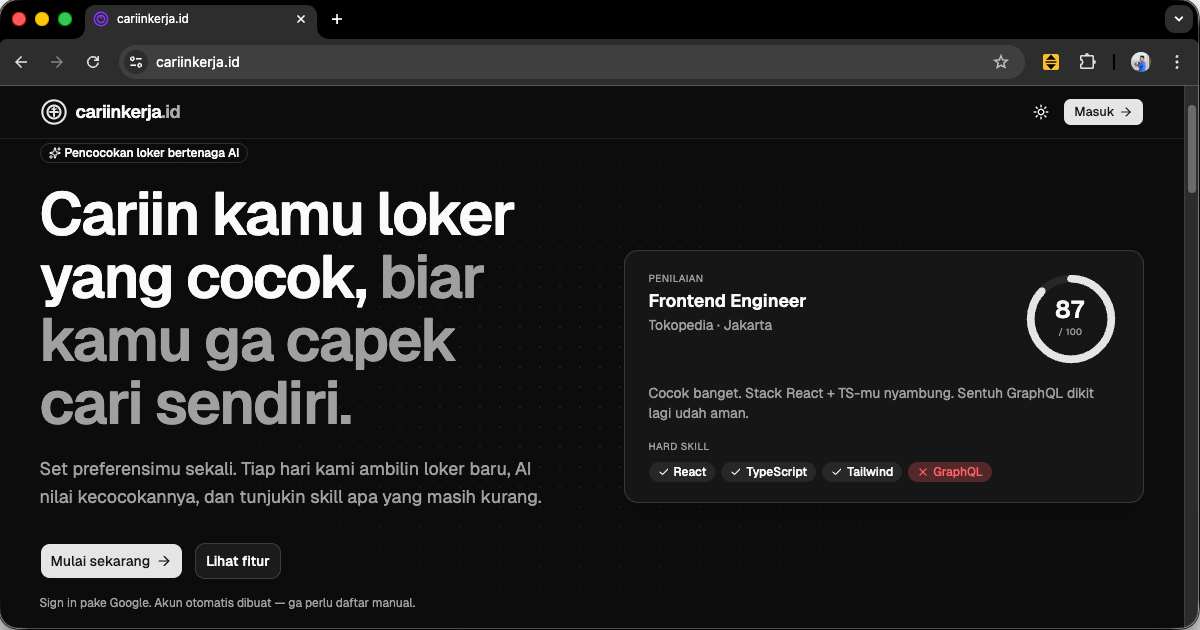
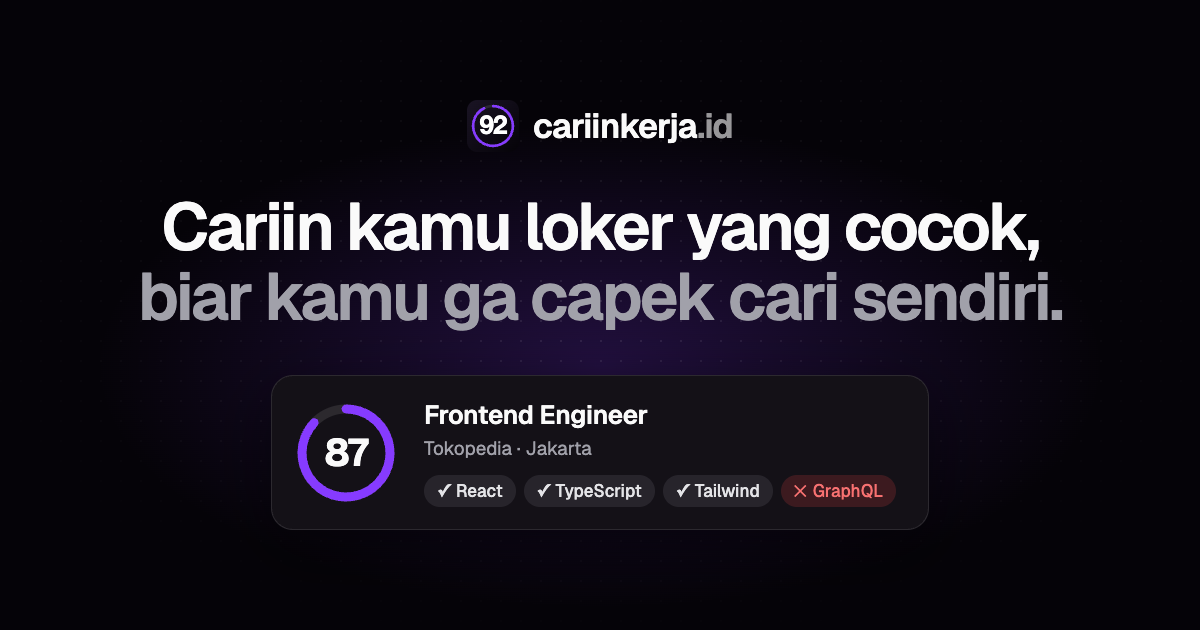
feat: add SEO enhancements and new assets
- Added robots.txt to manage crawler access.
- Created site.webmanifest for PWA support.
- Added sitemap.xml for better indexing.
- Updated Open Graph image for social sharing.
- Removed unused assets (hero.png, react.svg, vite.svg).
- Improved accessibility by adding alt text to images and adjusting SVG roles.
- Implemented dynamic meta titles for various routes.
- Added a custom 404 page with appropriate metadata.
- Updated testimonials with descriptive alt text for images.
- Added a todo.md file to track project progress.

Changed region(s): [[0.0308, 0.3016, 0.9558, 0.8143], [0.0, 0.0, 1.0, 1.0], [0.0308, 0.8444, 0.3392, 0.9651]]

diff --git a/frontend/index.html b/frontend/index.html
@@ -3,7 +3,10 @@
 
 <head>
   <meta charset="UTF-8" />
+  <link rel="icon" href="/favicon.ico" sizes="32x32" />
   <link rel="icon" type="image/svg+xml" href="/favicon.svg" />
+  <link rel="apple-touch-icon" href="/apple-touch-icon.png" />
+  <link rel="manifest" href="/site.webmanifest" />
   <meta name="viewport" content="width=device-width, initial-scale=1.0" />
 
   <title>cariinkerja.id — Cariin kamu loker yang cocok</title>
@@ -19,19 +22,26 @@
   <meta property="og:title" content="cariinkerja.id — Cariin kamu loker yang cocok" />
   <meta property="og:description"
     content="Tiap hari kita cek loker baru yang cocok sama profilmu, dan tunjukin skill apa yang kurang dari kamu." />
-  <meta property="og:image" content="https://cariinkerja.id/og-image.png" />
+  <meta property="og:image" content="https://cariinkerja.id/og-image.png?v=2" />
   <meta property="og:image:width" content="1200" />
   <meta property="og:image:height" content="630" />
-  <meta property="og:image:alt" content="cariinkerja.id — pencocokan loker bertenaga AI" />
+  <meta property="og:image:alt" content="cariinkerja.id — skor kecocokan loker 87/100 plus skill yang masih kurang" />
 
   <!-- Twitter / X -->
   <meta name="twitter:card" content="summary_large_image" />
   <meta name="twitter:title" content="cariinkerja.id — Cariin kamu loker yang cocok" />
   <meta name="twitter:description"
     content="Tiap hari kita cek loker baru yang cocok sama profilmu, dan tunjukin skill apa yang kurang dari kamu." />
-  <meta name="twitter:image" content="https://cariinkerja.id/og-image.png" />
+  <meta name="twitter:image" content="https://cariinkerja.id/og-image.png?v=2" />
+  <meta name="twitter:image:alt" content="cariinkerja.id — skor kecocokan loker 87/100 plus skill yang masih kurang" />
 
   <script src="https://accounts.google.com/gsi/client" async defer></script>
+
+  <!-- Umami analytics + session recorder -->
+  <script defer src="https://umami.jordanmaulana.space/script.js"
+    data-website-id="8210aaee-9ce5-4825-a5c5-8d81349ca09f"></script>
+  <script defer src="https://umami.jordanmaulana.space/recorder.js"
+    data-website-id="8210aaee-9ce5-4825-a5c5-8d81349ca09f"></script>
 </head>
 
 <body>

diff --git a/frontend/src/routes/__root.tsx b/frontend/src/routes/__root.tsx
@@ -1,6 +1,8 @@
-import { Suspense, lazy } from "react";
-import { createRootRoute } from "@tanstack/react-router";
+import { Suspense, lazy, useEffect } from "react";
+import { HeadContent, Link, createRootRoute } from "@tanstack/react-router";
 
+import { LogoMark } from "@/components/brand/logo-mark";
+import { Button } from "@/components/ui/button";
 import { AuthGate } from "@/features/auth/components/auth-gate";
 
 const TanStackRouterDevtools = import.meta.env.DEV
@@ -19,8 +21,11 @@ const ReactQueryDevtools = import.meta.env.DEV
   : () => null;
 
 export const Route = createRootRoute({
+  // Title only: a per-route description would duplicate index.html's static one.
+  head: () => ({ meta: [{ title: "cariinkerja.id — Cariin kamu loker yang cocok" }] }),
   component: () => (
     <>
+      <HeadContent />
       <AuthGate />
       <Suspense fallback={null}>
         <TanStackRouterDevtools />
@@ -28,4 +33,33 @@ export const Route = createRootRoute({
       </Suspense>
     </>
   ),
+  notFoundComponent: NotFoundPage,
 });
+
+function NotFoundPage() {
+  // `serve -s` answers every path with 200, so tell crawlers this is a soft 404.
+  useEffect(() => {
+    const meta = document.createElement("meta");
+    meta.name = "robots";
+    meta.content = "noindex";
+    document.head.appendChild(meta);
+    return () => meta.remove();
+  }, []);
+
+  return (
+    <main className="grid min-h-[70svh] place-items-center px-4 text-center">
+      <title>Halaman tidak ditemukan — cariinkerja.id</title>
+      <div className="flex flex-col items-center gap-4">
+        <LogoMark className="size-12" />
+        <p className="text-sm font-medium text-muted-foreground">404</p>
+        <h1 className="text-2xl font-semibold">Halaman tidak ditemukan</h1>
+        <p className="max-w-sm text-sm text-muted-foreground">
+          Halaman yang kamu cari nggak ada atau sudah dipindah.
+        </p>
+        <Button asChild>
+          <Link to="/">Kembali ke beranda</Link>
+        </Button>
+      </div>
+    </main>
+  );
+}

diff --git a/frontend/src/features/auth/components/auth-gate.tsx b/frontend/src/features/auth/components/auth-gate.tsx
@@ -17,6 +17,10 @@ export function AuthGate() {
   const [user, setUser] = useAtom(userAtom);
   const navigate = useNavigate();
   const pathname = useRouterState({ select: (s) => s.location.pathname });
+  // Unmatched URL: let the root notFoundComponent render instead of bouncing to /login.
+  const isNotFound = useRouterState({
+    select: (s) => s.matches.some((m) => m.globalNotFound),
+  });
   const sessionExpiredFiredRef = useRef(false);
   const onboardingNudgeFiredRef = useRef(false);
 
@@ -46,6 +50,7 @@ export function AuthGate() {
   }, [token, user, setToken, setUser]);
 
   useEffect(() => {
+    if (isNotFound) return;
     if (!token) {
       if (!PUBLIC_PATHS.has(pathname)) {
         navigate({ to: "/login" });
@@ -64,7 +69,7 @@ export function AuthGate() {
     if (user.onboarded && (PUBLIC_PATHS.has(pathname) || pathname === "/onboarding")) {
       navigate({ to: "/dashboard" });
     }
-  }, [token, user, pathname, navigate]);
+  }, [token, user, pathname, navigate, isNotFound]);
 
   if (!token || !user || FULL_BLEED_PATHS.has(pathname)) {
     return <Outlet />;

diff --git a/frontend/src/components/brand/logo-mark.tsx b/frontend/src/components/brand/logo-mark.tsx
@@ -11,8 +11,8 @@ export function LogoMark({ className, title = "cariinkerja.id" }: Props) {
       xmlns="http://www.w3.org/2000/svg"
       viewBox="0 0 240 240"
       fill="none"
-      role="img"
-      aria-label={title}
+      // Empty title = decorative (sits next to visible brand text).
+      {...(title ? { role: "img", "aria-label": title } : { "aria-hidden": true })}
       className={cn("size-6", className)}
     >
       <defs>
@@ -61,7 +61,7 @@ export function LogoMark({ className, title = "cariinkerja.id" }: Props) {
 export function LogoLockup({ className }: { className?: string }) {
   return (
     <div className={cn("flex items-center gap-2", className)}>
-      <LogoMark className="size-7" />
+      <LogoMark className="size-7" title="" />
       <span className="font-heading text-lg font-semibold tracking-tight">
         cariinkerja<span className="opacity-60">.id</span>
       </span>

diff --git a/frontend/src/features/landing/components/brand-marks.tsx b/frontend/src/features/landing/components/brand-marks.tsx
@@ -5,7 +5,6 @@ type MarkProps = { className?: string };
 export function GithubMark({ className }: MarkProps) {
   return (
     <svg
-      role="img"
       viewBox="0 0 24 24"
       aria-hidden="true"
       fill="currentColor"
@@ -19,7 +18,6 @@ export function GithubMark({ className }: MarkProps) {
 export function LinkedinMark({ className }: MarkProps) {
   return (
     <svg
-      role="img"
       viewBox="0 0 24 24"
       aria-hidden="true"
       fill="currentColor"
@@ -33,7 +31,6 @@ export function LinkedinMark({ className }: MarkProps) {
 export function IndeedMark({ className }: MarkProps) {
   return (
     <svg
-      role="img"
       viewBox="0 0 24 24"
       aria-hidden="true"
       fill="currentColor"

diff --git a/frontend/src/components/layout/app-shell.tsx b/frontend/src/components/layout/app-shell.tsx
@@ -69,7 +69,7 @@ export function AppShell() {
     <div className="flex min-h-screen bg-background text-foreground">
       <aside className="hidden w-60 shrink-0 flex-col border-r bg-card md:flex">
         <div className="flex h-14 items-center gap-2 border-b px-5">
-          <LogoMark className="size-5 text-primary" />
+          <LogoMark className="size-5 text-primary" title="" />
           <span className="text-sm font-semibold tracking-tight">
             cariinkerja<span className="opacity-60">.id</span>
           </span>

diff --git a/frontend/src/features/assessments/components/score-gauge.tsx b/frontend/src/features/assessments/components/score-gauge.tsx
@@ -29,7 +29,11 @@ export function ScoreGauge({ value }: { value: number }) {
 
   return (
     <div className="relative grid size-24 shrink-0 place-items-center">
-      <svg viewBox="0 0 100 100" className="absolute inset-0 -rotate-90">
+      <svg
+        viewBox="0 0 100 100"
+        aria-hidden="true"
+        className="absolute inset-0 -rotate-90"
+      >
         <circle
           cx="50"
           cy="50"

diff --git a/frontend/src/routes/assessments.index.tsx b/frontend/src/routes/assessments.index.tsx
@@ -39,6 +39,7 @@ export type AssessmentsSearch = {
 }
 
 export const Route = createFileRoute("/assessments/")({
+  head: () => ({ meta: [{ title: "Loker Tersedia — cariinkerja.id" }] }),
   validateSearch: (search: Record<string, unknown>): AssessmentsSearch => {
     const raw = search.status
     const arr = Array.isArray(raw) ? raw : raw == null ? [] : [raw]

diff --git a/frontend/src/features/landing/components/testimonials.tsx b/frontend/src/features/landing/components/testimonials.tsx
@@ -99,7 +99,7 @@ function TestimonialCard({
           <figcaption className="mt-6 flex items-center gap-3 border-t border-border/60 pt-4">
             <img
               src={testimonial.avatar}
-              alt=""
+              alt={`Foto ${testimonial.name}`}
               loading="lazy"
               width={44}
               height={44}

diff --git a/frontend/src/routes/dashboard.tsx b/frontend/src/routes/dashboard.tsx
@@ -24,6 +24,7 @@ import { TrendChart } from "@/features/dashboard/components/trend-chart"
 import { WaitingPaymentBanner } from "@/features/dashboard/components/waiting-payment-banner"
 
 export const Route = createFileRoute("/dashboard")({
+  head: () => ({ meta: [{ title: "Dashboard — cariinkerja.id" }] }),
   component: DashboardPage,
 })
 

diff --git a/frontend/src/routes/assessments.$id.tsx b/frontend/src/routes/assessments.$id.tsx
@@ -14,6 +14,7 @@ import { STATUS_LABEL, STATUS_VARIANT } from "@/features/assessments/consts"
 import type { AssessmentsSearch } from "@/routes/assessments.index"
 
 export const Route = createFileRoute("/assessments/$id")({
+  head: () => ({ meta: [{ title: "Detail Loker — cariinkerja.id" }] }),
   component: AssessmentDetailPage,
 })
 

diff --git a/frontend/src/routes/preferences.$id.tsx b/frontend/src/routes/preferences.$id.tsx
@@ -13,6 +13,7 @@ import { getPreference } from "@/features/preferences/api"
 import { STATUS_LABEL, STATUS_VARIANT } from "@/features/preferences/consts"
 
 export const Route = createFileRoute("/preferences/$id")({
+  head: () => ({ meta: [{ title: "Detail Pencarian — cariinkerja.id" }] }),
   component: PreferenceDetailPage,
 })
 
